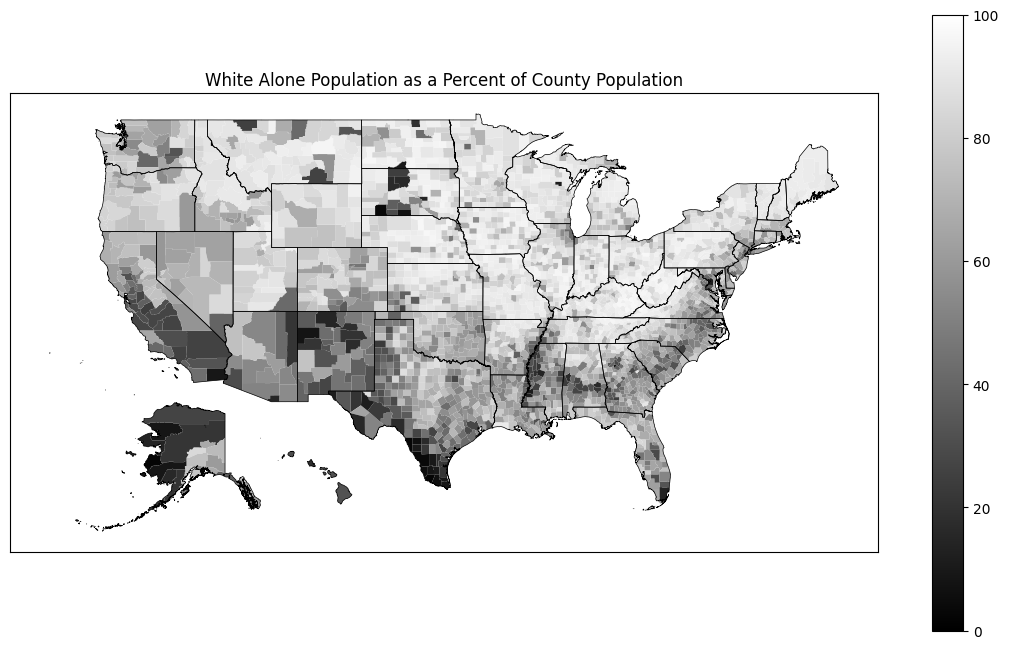
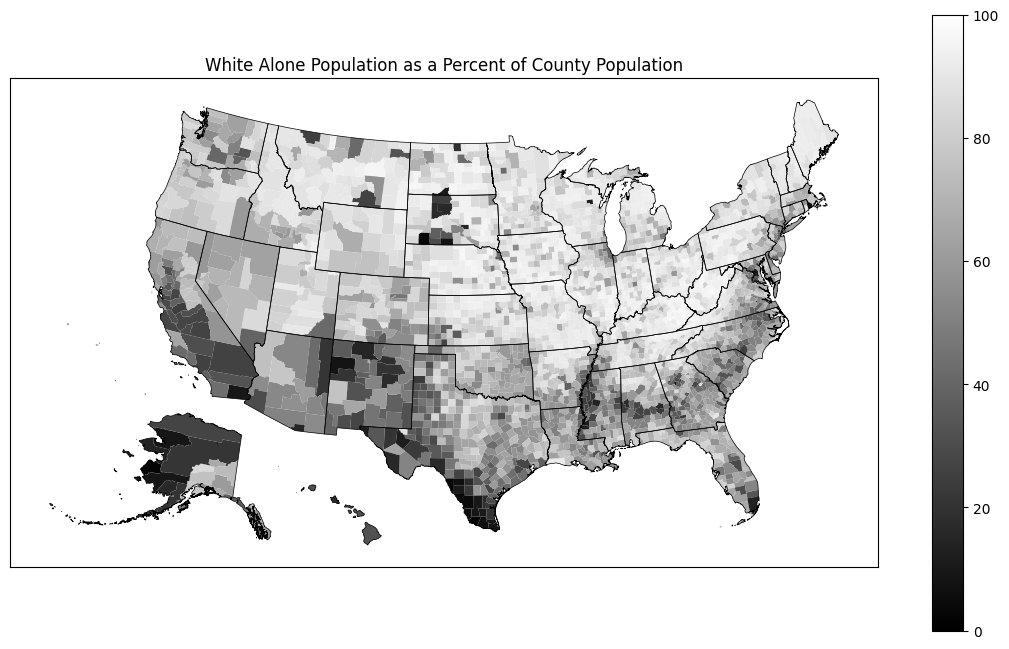
Update US map images in docs with new equal area projection. (#65)

Changed region(s): [[0.0922, 0.0924, 0.8295, 0.832], [0.3072, 0.7088, 0.3994, 0.8629], [0.0614, 0.8012, 0.1229, 0.832]]

diff --git a/reports/coverage/d_1ef9b076751c2c3b___init___py.html b/reports/coverage/d_1ef9b076751c2c3b___init___py.html
@@ -65,7 +65,7 @@
             <a id="nextFileLink" class="nav" href="d_1ef9b076751c2c3b_exceptions_py.html">&#xbb; next</a>
             &nbsp; &nbsp; &nbsp;
             <a class="nav" href="https://coverage.readthedocs.io">coverage.py v6.5.0</a>,
-            created at 2022-12-29 21:26 +0000
+            created at 2022-12-29 22:09 +0000
         </p>
         <aside class="hidden">
             <button type="button" class="button_next_chunk" data-shortcut="j"/>
@@ -89,7 +89,7 @@
             <a id="nextFileLink" class="nav" href="d_1ef9b076751c2c3b_exceptions_py.html">&#xbb; next</a>
             &nbsp; &nbsp; &nbsp;
             <a class="nav" href="https://coverage.readthedocs.io">coverage.py v6.5.0</a>,
-            created at 2022-12-29 21:26 +0000
+            created at 2022-12-29 22:09 +0000
         </p>
     </div>
 </footer>

diff --git a/reports/coverage/d_5a366ca900b21d9c_data_py.html b/reports/coverage/d_5a366ca900b21d9c_data_py.html
@@ -65,7 +65,7 @@
             <a id="nextFileLink" class="nav" href="d_5a366ca900b21d9c_geography_py.html">&#xbb; next</a>
             &nbsp; &nbsp; &nbsp;
             <a class="nav" href="https://coverage.readthedocs.io">coverage.py v6.5.0</a>,
-            created at 2022-12-29 21:26 +0000
+            created at 2022-12-29 22:09 +0000
         </p>
         <aside class="hidden">
             <button type="button" class="button_next_chunk" data-shortcut="j"/>
@@ -857,7 +857,7 @@
             <a id="nextFileLink" class="nav" href="d_5a366ca900b21d9c_geography_py.html">&#xbb; next</a>
             &nbsp; &nbsp; &nbsp;
             <a class="nav" href="https://coverage.readthedocs.io">coverage.py v6.5.0</a>,
-            created at 2022-12-29 21:26 +0000
+            created at 2022-12-29 22:09 +0000
         </p>
     </div>
 </footer>

diff --git a/reports/coverage/d_aea9b701da09b1b0_base_py.html b/reports/coverage/d_aea9b701da09b1b0_base_py.html
@@ -65,7 +65,7 @@
             <a id="nextFileLink" class="nav" href="d_aea9b701da09b1b0_censusapi_py.html">&#xbb; next</a>
             &nbsp; &nbsp; &nbsp;
             <a class="nav" href="https://coverage.readthedocs.io">coverage.py v6.5.0</a>,
-            created at 2022-12-29 21:26 +0000
+            created at 2022-12-29 22:09 +0000
         </p>
         <aside class="hidden">
             <button type="button" class="button_next_chunk" data-shortcut="j"/>
@@ -261,7 +261,7 @@
             <a id="nextFileLink" class="nav" href="d_aea9b701da09b1b0_censusapi_py.html">&#xbb; next</a>
             &nbsp; &nbsp; &nbsp;
             <a class="nav" href="https://coverage.readthedocs.io">coverage.py v6.5.0</a>,
-            created at 2022-12-29 21:26 +0000
+            created at 2022-12-29 22:09 +0000
         </p>
     </div>
 </footer>

diff --git a/reports/coverage/d_1ef9b076751c2c3b_fetch_py.html b/reports/coverage/d_1ef9b076751c2c3b_fetch_py.html
@@ -65,7 +65,7 @@
             <a id="nextFileLink" class="nav" href="d_1ef9b076751c2c3b_varcache_py.html">&#xbb; next</a>
             &nbsp; &nbsp; &nbsp;
             <a class="nav" href="https://coverage.readthedocs.io">coverage.py v6.5.0</a>,
-            created at 2022-12-29 21:26 +0000
+            created at 2022-12-29 22:09 +0000
         </p>
         <aside class="hidden">
             <button type="button" class="button_next_chunk" data-shortcut="j"/>
@@ -149,7 +149,7 @@
             <a id="nextFileLink" class="nav" href="d_1ef9b076751c2c3b_varcache_py.html">&#xbb; next</a>
             &nbsp; &nbsp; &nbsp;
             <a class="nav" href="https://coverage.readthedocs.io">coverage.py v6.5.0</a>,
-            created at 2022-12-29 21:26 +0000
+            created at 2022-12-29 22:09 +0000
         </p>
     </div>
 </footer>

diff --git a/reports/coverage/d_1ef9b076751c2c3b_varcache_py.html b/reports/coverage/d_1ef9b076751c2c3b_varcache_py.html
@@ -65,7 +65,7 @@
             <a id="nextFileLink" class="nav" href="d_aea9b701da09b1b0___init___py.html">&#xbb; next</a>
             &nbsp; &nbsp; &nbsp;
             <a class="nav" href="https://coverage.readthedocs.io">coverage.py v6.5.0</a>,
-            created at 2022-12-29 21:26 +0000
+            created at 2022-12-29 22:09 +0000
         </p>
         <aside class="hidden">
             <button type="button" class="button_next_chunk" data-shortcut="j"/>
@@ -654,7 +654,7 @@
             <a id="nextFileLink" class="nav" href="d_aea9b701da09b1b0___init___py.html">&#xbb; next</a>
             &nbsp; &nbsp; &nbsp;
             <a class="nav" href="https://coverage.readthedocs.io">coverage.py v6.5.0</a>,
-            created at 2022-12-29 21:26 +0000
+            created at 2022-12-29 22:09 +0000
         </p>
     </div>
 </footer>

diff --git a/reports/coverage/d_5a366ca900b21d9c_geography_py.html b/reports/coverage/d_5a366ca900b21d9c_geography_py.html
@@ -65,7 +65,7 @@
             <a id="nextFileLink" class="nav" href="d_1ef9b076751c2c3b___init___py.html">&#xbb; next</a>
             &nbsp; &nbsp; &nbsp;
             <a class="nav" href="https://coverage.readthedocs.io">coverage.py v6.5.0</a>,
-            created at 2022-12-29 21:26 +0000
+            created at 2022-12-29 22:09 +0000
         </p>
         <aside class="hidden">
             <button type="button" class="button_next_chunk" data-shortcut="j"/>
@@ -386,7 +386,7 @@
             <a id="nextFileLink" class="nav" href="d_1ef9b076751c2c3b___init___py.html">&#xbb; next</a>
             &nbsp; &nbsp; &nbsp;
             <a class="nav" href="https://coverage.readthedocs.io">coverage.py v6.5.0</a>,
-            created at 2022-12-29 21:26 +0000
+            created at 2022-12-29 22:09 +0000
         </p>
     </div>
 </footer>

diff --git a/reports/coverage/d_5a366ca900b21d9c_maps_py.html b/reports/coverage/d_5a366ca900b21d9c_maps_py.html
@@ -65,7 +65,7 @@
             <a id="nextFileLink" class="nav" href="d_5a366ca900b21d9c_states_py.html">&#xbb; next</a>
             &nbsp; &nbsp; &nbsp;
             <a class="nav" href="https://coverage.readthedocs.io">coverage.py v6.5.0</a>,
-            created at 2022-12-29 21:26 +0000
+            created at 2022-12-29 22:09 +0000
         </p>
         <aside class="hidden">
             <button type="button" class="button_next_chunk" data-shortcut="j"/>
@@ -913,7 +913,7 @@
             <a id="nextFileLink" class="nav" href="d_5a366ca900b21d9c_states_py.html">&#xbb; next</a>
             &nbsp; &nbsp; &nbsp;
             <a class="nav" href="https://coverage.readthedocs.io">coverage.py v6.5.0</a>,
-            created at 2022-12-29 21:26 +0000
+            created at 2022-12-29 22:09 +0000
         </p>
     </div>
 </footer>

diff --git a/reports/coverage/d_1ef9b076751c2c3b_exceptions_py.html b/reports/coverage/d_1ef9b076751c2c3b_exceptions_py.html
@@ -65,7 +65,7 @@
             <a id="nextFileLink" class="nav" href="d_1ef9b076751c2c3b_fetch_py.html">&#xbb; next</a>
             &nbsp; &nbsp; &nbsp;
             <a class="nav" href="https://coverage.readthedocs.io">coverage.py v6.5.0</a>,
-            created at 2022-12-29 21:26 +0000
+            created at 2022-12-29 22:09 +0000
         </p>
         <aside class="hidden">
             <button type="button" class="button_next_chunk" data-shortcut="j"/>
@@ -97,7 +97,7 @@
             <a id="nextFileLink" class="nav" href="d_1ef9b076751c2c3b_fetch_py.html">&#xbb; next</a>
             &nbsp; &nbsp; &nbsp;
             <a class="nav" href="https://coverage.readthedocs.io">coverage.py v6.5.0</a>,
-            created at 2022-12-29 21:26 +0000
+            created at 2022-12-29 22:09 +0000
         </p>
     </div>
 </footer>

diff --git a/reports/coverage/d_aea9b701da09b1b0_censusapi_py.html b/reports/coverage/d_aea9b701da09b1b0_censusapi_py.html
@@ -65,7 +65,7 @@
             <a id="nextFileLink" class="nav" href="d_5a366ca900b21d9c_maps_py.html">&#xbb; next</a>
             &nbsp; &nbsp; &nbsp;
             <a class="nav" href="https://coverage.readthedocs.io">coverage.py v6.5.0</a>,
-            created at 2022-12-29 21:26 +0000
+            created at 2022-12-29 22:09 +0000
         </p>
         <aside class="hidden">
             <button type="button" class="button_next_chunk" data-shortcut="j"/>
@@ -257,7 +257,7 @@
             <a id="nextFileLink" class="nav" href="d_5a366ca900b21d9c_maps_py.html">&#xbb; next</a>
             &nbsp; &nbsp; &nbsp;
             <a class="nav" href="https://coverage.readthedocs.io">coverage.py v6.5.0</a>,
-            created at 2022-12-29 21:26 +0000
+            created at 2022-12-29 22:09 +0000
         </p>
     </div>
 </footer>

diff --git a/reports/coverage/d_5a366ca900b21d9c___init___py.html b/reports/coverage/d_5a366ca900b21d9c___init___py.html
@@ -65,7 +65,7 @@
             <a id="nextFileLink" class="nav" href="d_5a366ca900b21d9c_data_py.html">&#xbb; next</a>
             &nbsp; &nbsp; &nbsp;
             <a class="nav" href="https://coverage.readthedocs.io">coverage.py v6.5.0</a>,
-            created at 2022-12-29 21:26 +0000
+            created at 2022-12-29 22:09 +0000
         </p>
         <aside class="hidden">
             <button type="button" class="button_next_chunk" data-shortcut="j"/>
@@ -92,7 +92,7 @@
             <a id="nextFileLink" class="nav" href="d_5a366ca900b21d9c_data_py.html">&#xbb; next</a>
             &nbsp; &nbsp; &nbsp;
             <a class="nav" href="https://coverage.readthedocs.io">coverage.py v6.5.0</a>,
-            created at 2022-12-29 21:26 +0000
+            created at 2022-12-29 22:09 +0000
         </p>
     </div>
 </footer>

diff --git a/reports/coverage/d_aea9b701da09b1b0___init___py.html b/reports/coverage/d_aea9b701da09b1b0___init___py.html
@@ -65,7 +65,7 @@
             <a id="nextFileLink" class="nav" href="d_aea9b701da09b1b0_base_py.html">&#xbb; next</a>
             &nbsp; &nbsp; &nbsp;
             <a class="nav" href="https://coverage.readthedocs.io">coverage.py v6.5.0</a>,
-            created at 2022-12-29 21:26 +0000
+            created at 2022-12-29 22:09 +0000
         </p>
         <aside class="hidden">
             <button type="button" class="button_next_chunk" data-shortcut="j"/>
@@ -89,7 +89,7 @@
             <a id="nextFileLink" class="nav" href="d_aea9b701da09b1b0_base_py.html">&#xbb; next</a>
             &nbsp; &nbsp; &nbsp;
             <a class="nav" href="https://coverage.readthedocs.io">coverage.py v6.5.0</a>,
-            created at 2022-12-29 21:26 +0000
+            created at 2022-12-29 22:09 +0000
         </p>
     </div>
 </footer>

diff --git a/reports/coverage/d_5a366ca900b21d9c_states_py.html b/reports/coverage/d_5a366ca900b21d9c_states_py.html
@@ -65,7 +65,7 @@
             <a id="nextFileLink" class="nav" href="index.html">&#xbb; next</a>
             &nbsp; &nbsp; &nbsp;
             <a class="nav" href="https://coverage.readthedocs.io">coverage.py v6.5.0</a>,
-            created at 2022-12-29 21:26 +0000
+            created at 2022-12-29 22:09 +0000
         </p>
         <aside class="hidden">
             <button type="button" class="button_next_chunk" data-shortcut="j"/>
@@ -402,7 +402,7 @@
             <a id="nextFileLink" class="nav" href="index.html">&#xbb; next</a>
             &nbsp; &nbsp; &nbsp;
             <a class="nav" href="https://coverage.readthedocs.io">coverage.py v6.5.0</a>,
-            created at 2022-12-29 21:26 +0000
+            created at 2022-12-29 22:09 +0000
         </p>
     </div>
 </footer>
